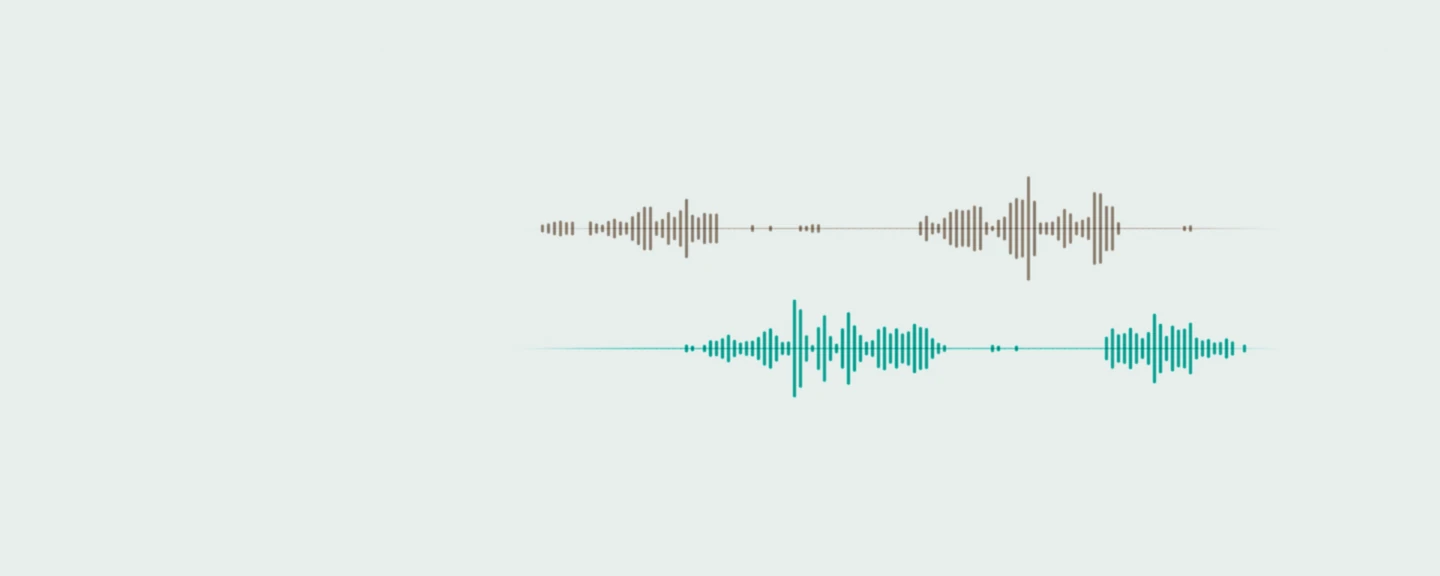
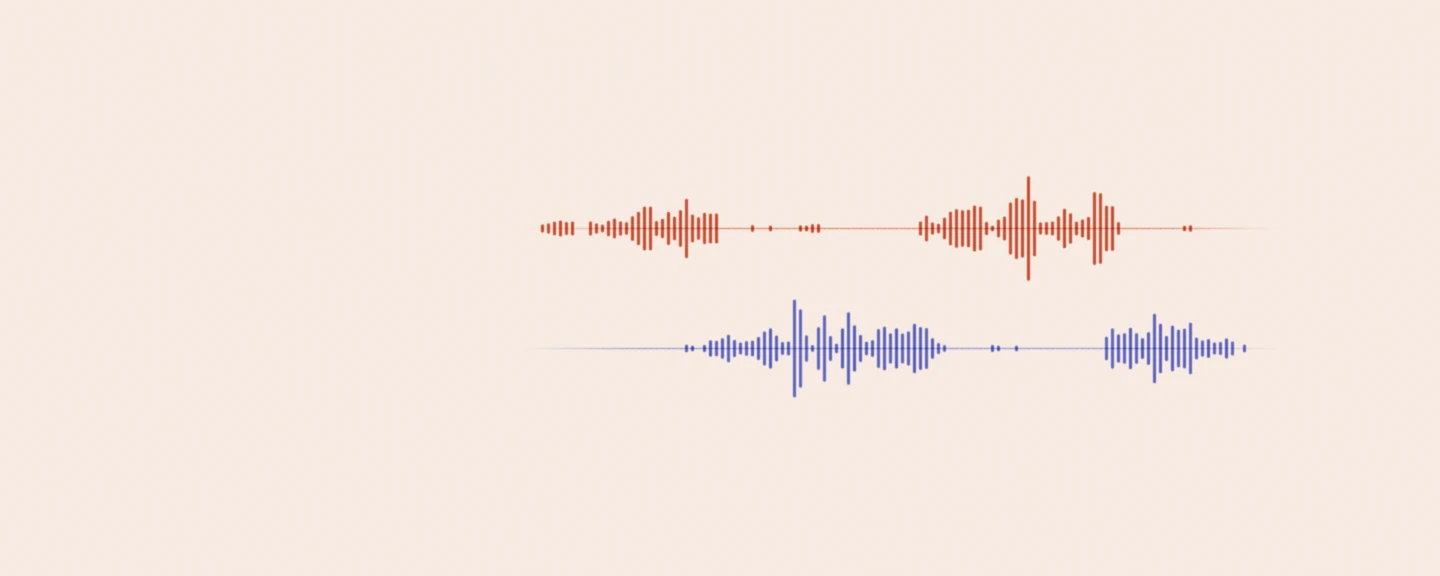
feat(design): hero art redrawn in the brand palette

Changed region(s): [[0.4062, 0.5312, 0.875, 0.6875], [0.375, 0.3125, 0.8438, 0.4688]]

diff --git a/scripts/hero-art.py b/scripts/hero-art.py
@@ -52,8 +52,8 @@ OUT = os.path.join(os.path.dirname(__file__), "..", "src", "assets", "hero")
 # The banner's background in each theme, so the art has no edge. Keep these
 # in step with `--color-hero-surface` in App.css (dark in @theme, light in the
 # `:root:not([data-theme="dark"]) .hero-stage` override).
-STAGE_DARK = (11, 13, 14)
-STAGE_LIGHT = (231, 238, 236)
+STAGE_DARK = (19, 21, 58)
+STAGE_LIGHT = (247, 235, 226)
 
 # The intensity at which a light-theme ink lands exactly on its target colour.
 # The waveform bars are drawn at this intensity; fainter strokes (a track's
@@ -80,25 +80,29 @@ def ink(rgb) -> np.ndarray:
 
 
 # Named for what they are, not where they go. On the dark stage these are
-# lights; on the light stage, the inks that play the same part: warm white
-# becomes a warm graphite, the teal stays the brand's teal.
+# lights; on the light stage, the inks that play the same part. Talvio's
+# palette (docs/talvio-brand.md §5): the brand gradient's orange and coral on
+# the warm side, and a periwinkle drawn from the ink tile's indigo on the cool
+# side, so the art reads as the brand without becoming a coral flood.
 PALETTES = {
     "dark": SimpleNamespace(
-        AMBER=to_linear((255, 164, 82)),
-        TUNGSTEN=to_linear((255, 206, 150)),
-        TEAL=to_linear((46, 214, 190)),
-        MINT=to_linear((150, 240, 222)),
-        WHITE=to_linear((255, 244, 230)),
+        AMBER=to_linear((255, 143, 63)),
+        TUNGSTEN=to_linear((255, 178, 150)),
+        CORAL=to_linear((255, 106, 82)),
+        PERI=to_linear((132, 140, 255)),
+        LILAC=to_linear((190, 194, 255)),
+        WHITE=to_linear((255, 236, 226)),
         # How much colour the orb holds inside its rim.
         ORB_BODY=0.03,
     ),
     "light": SimpleNamespace(
-        AMBER=ink((178, 116, 62)),
-        TUNGSTEN=ink((146, 128, 110)),
-        TEAL=ink((0, 140, 124)),
-        MINT=ink((74, 168, 154)),
-        WHITE=ink((112, 104, 96)),
-        # Teal ink has almost no red, so even a trace of it tints strongly.
+        AMBER=ink((206, 104, 40)),
+        TUNGSTEN=ink((186, 92, 70)),
+        CORAL=ink((194, 64, 42)),
+        PERI=ink((72, 78, 176)),
+        LILAC=ink((118, 122, 200)),
+        WHITE=ink((120, 96, 88)),
+        # Indigo ink has little red, so even a trace of it tints strongly.
         ORB_BODY=0.008,
     ),
 }
@@ -200,7 +204,7 @@ def bar(buf, x, centre, half, color, intensity=INK_REF) -> None:
 
 def art_assistant(rng, p) -> np.ndarray:
     """The assistant: the call's orb, at rest. A sphere whose only mark is a
-    thin rim, warm on the upper left and teal on the lower right, like a
+    thin rim, warm on the upper left and periwinkle on the lower right, like a
     planet at the edge of an eclipse on the dark stage and a glass bead on
     the light one.
 
@@ -217,18 +221,18 @@ def art_assistant(rng, p) -> np.ndarray:
     nz = np.sqrt(np.clip(1.0 - d**2, 0.0, 1.0))
     fresnel = (1.0 - nz) ** 3.4
     # Which way each point of the rim faces: +1 toward the warm key light
-    # (upper left), -1 toward the teal fill (lower right).
+    # (upper left), -1 toward the periwinkle fill (lower right).
     facing = -(dx + dy) / np.sqrt(2.0) / np.maximum(d, 1e-3)
     warm = smoothstep(0.0, 1.0, facing)
     cool = smoothstep(0.0, 1.0, -facing)
     rim = new_buffer()
-    rim += mix(p.AMBER, p.TUNGSTEN, 0.5)[None, None, :] * (0.55 * fresnel * warm * inside)[..., None]
-    rim += mix(p.TEAL, p.MINT, 0.3)[None, None, :] * (0.6 * fresnel * cool * inside)[..., None]
+    rim += mix(p.AMBER, p.CORAL, 0.5)[None, None, :] * (0.55 * fresnel * warm * inside)[..., None]
+    rim += mix(p.PERI, p.LILAC, 0.3)[None, None, :] * (0.6 * fresnel * cool * inside)[..., None]
     # A faint rim all the way round, so the silhouette never breaks.
-    rim += mix(p.TUNGSTEN, p.TEAL, 0.5)[None, None, :] * (0.06 * fresnel * inside)[..., None]
+    rim += mix(p.TUNGSTEN, p.PERI, 0.5)[None, None, :] * (0.06 * fresnel * inside)[..., None]
     # Just enough inside that the sphere is glass, not a hole.
     body = new_buffer()
-    body += (p.TEAL * p.ORB_BODY)[None, None, :] * (
+    body += (p.PERI * p.ORB_BODY)[None, None, :] * (
         np.exp(-((dx - 0.3) ** 2 + (dy - 0.35) ** 2) / 0.35) * inside
     )[..., None]
 
@@ -237,7 +241,7 @@ def art_assistant(rng, p) -> np.ndarray:
 
 def art_meetings(rng, p) -> np.ndarray:
     """Meetings: a two-track recording of a call. You are the warm track on
-    top, the other side the teal track below, and the two take turns — the
+    top, the other side the periwinkle track below, and the two take turns — the
     thing the feature actually does, keeping the two voices apart.
 
     The tracks fade out before the right edge rather than running off it:
@@ -274,8 +278,8 @@ def art_meetings(rng, p) -> np.ndarray:
     # In from the left, out before the corner button on the right.
     fade = smoothstep(0.0, 0.2, t) * (1.0 - smoothstep(W - 300.0, W - 150.0, xs))
     tracks = (
-        (base - gap, who, speech(), p.TUNGSTEN, p.WHITE),
-        (base + gap, 1.0 - who, speech(), p.TEAL, p.MINT),
+        (base - gap, who, speech(), p.CORAL, p.TUNGSTEN),
+        (base + gap, 1.0 - who, speech(), p.PERI, p.LILAC),
     )
     bars = new_buffer()
     for centre, active, envelope, c1, c2 in tracks:
@@ -300,8 +304,8 @@ def art_meetings(rng, p) -> np.ndarray:
 # than the same rim as light on black, and the orb is meant to be the
 # quietest thing on its page.
 PIECES = {
-    "assistant": (art_assistant, 23, {"dark": 1.0, "light": 0.7}),
-    "meetings": (art_meetings, 5, {"dark": 1.0, "light": 1.0}),
+    "assistant": (art_assistant, 23, {"dark": 1.2, "light": 0.7}),
+    "meetings": (art_meetings, 5, {"dark": 1.35, "light": 1.0}),
 }
 
 
